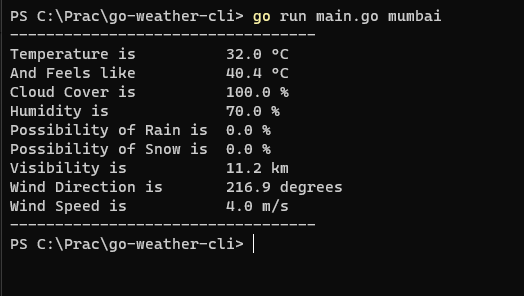
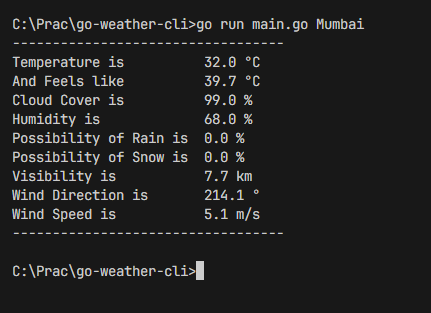
docs: Update README.md
- Update screenshots of examples
- Add Known Issues

Changed region(s): [[0.0, 0.0304, 0.8445, 0.7601], [0.0, 0.7905, 0.4826, 0.9122]]

diff --git a/README.md b/README.md
@@ -24,7 +24,7 @@ go run main.go
 - Enter the city name to fetch weather data.
 - Type 'x' to exit the interactive mode.
 
-![Interactive Mode Example](docs/interactice-mode-example.png)
+![Interactive Mode Example](docs/interactive-mode-example.png)
 
 ### Non-Interactive Mode
 
@@ -108,3 +108,9 @@ gwe -m "Mumbai Beijing Chicago"
 
 - Weather API : [Tomorrow.io Weather API Documentation](https://docs.tomorrow.io/reference/weather-forecast)
 - GeoCoding API : [LocationIQ Geocoding API Documentation](https://docs.locationiq.com/reference/search)
+
+### Known Issues
+
+**Error converting GeoCoding response body to JSON struct...**
+
+- The APIs may fail every once in a while. It is suggested to use some other API which has low occurrences of failure
